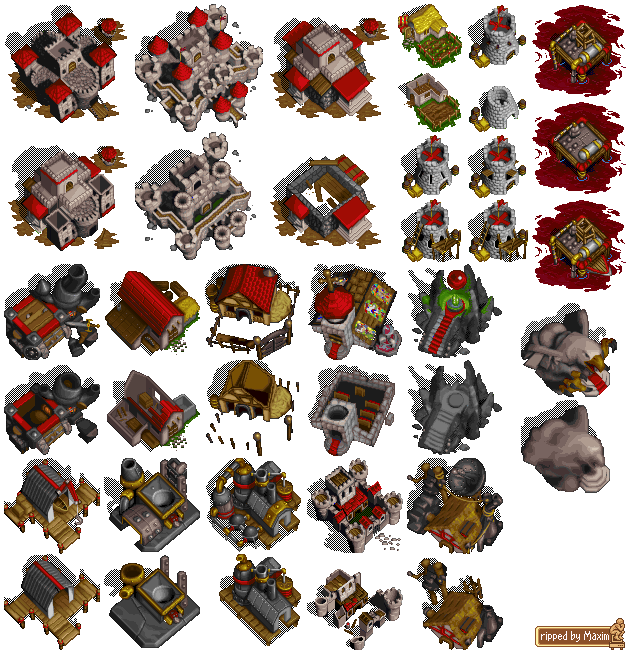
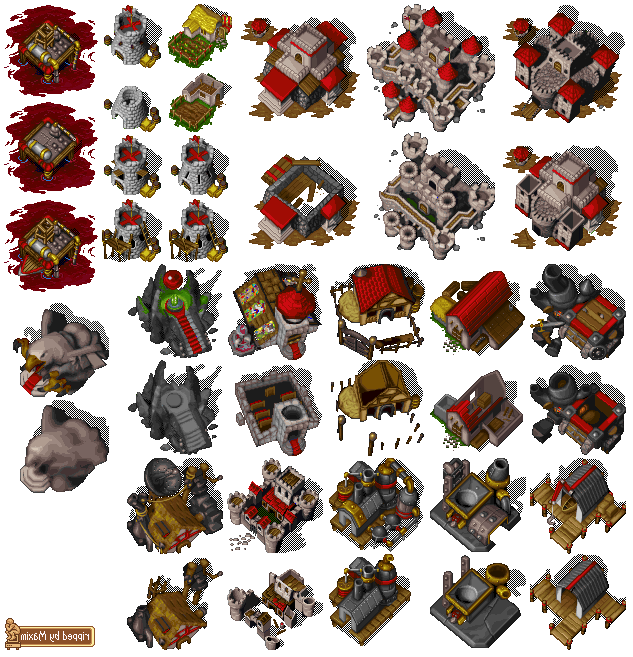
Bases implemented

diff --git a/wegasGame/client/game.js b/wegasGame/client/game.js
@@ -33,6 +33,8 @@ function onIdentify(data) {
     me = new Player(data.id, data.startX, data.startY, data.name, 1000, []);
     console.log('I am ' + data.name + " start: " + data.startX + " " + data.startY);
 
+   
+
     me.units.push(new Unit(game, 'unit1_'.concat(data.id), me.name, 100, 5, 10, 100, 100));
 
     me.units.push(new Unit(game, 'unit2_'.concat(data.id), me.name, 80, 6, 11, 150, 120));
@@ -62,7 +64,7 @@ function onCreateUnit(data) {
     redSprite[redSprite.length - 1] = '2';
     redSprite[redSprite.length - 2] = '_';
     var toCreate = new Unit(game, redSprite, data.owner, data.hp, data.minAtk, data.maxAtk, data.ms, data.coins);
-    enemy.createdUnits.push(toCreate.create(enemy.createdUnits.length,data.x, data.y));
+    enemy.createdUnits.push(toCreate.create(enemy.createdUnits.length, data.x, data.y));
 }
 
 function onMoveUnit(data) {
@@ -177,6 +179,9 @@ function preload() {
     game.load.spritesheet('unit3_2', '/client/assets/img/unit2_2.png', 70, 70);
     game.load.spritesheet('unit3_1', '/client/assets/img/unit3_1.png', 70, 70);
     game.load.spritesheet('unit3_2', '/client/assets/img/unit3_2.png', 70, 70);
+    //player base
+    game.load.spritesheet('base1', '/client/assets/img/human_buildings_1.png', 132, 130);
+    game.load.spritesheet('base2', '/client/assets/img/human_buildings_2.png', 123, 135);
 }
 
 
@@ -227,15 +232,17 @@ function render() {
     /* Debugging Zone */
     //game.debug.bodyInfo(me.createdUnits[0].unit, 16, 24);
     //game.debug.spriteInfo(me.createdUnits[0].unit, 200, 200);
-
+    if (me != null) {
+        //game.debug.body(me.base.building);
+    }
     if (me != null) {
         for (var i = 0; i < me.createdUnits.length; i++)
-            game.debug.body(me.createdUnits[i].unit);
+          game.debug.body(me.createdUnits[i].unit);
     }
 
     if (enemy != null) {
         for (var i = 0; i < enemy.createdUnits.length; i++)
-            game.debug.body(enemy.createdUnits[i].unit);
+         game.debug.body(enemy.createdUnits[i].unit);
     }
 }
 

diff --git a/wegasGame/client/assets/js/Map.js b/wegasGame/client/assets/js/Map.js
@@ -19,6 +19,11 @@ var Map = function () {
     this.layer.debug = true;
     //creare layer
 
+    //add bases
+    this.base1 = new Building(game, 'base1', 5000, 250, 70,1);
+    this.base2 = new Building(game, 'base2', 5000, 1850, 1800,2);
+
+
     //collisionMatrix
     var data = this.map.layer.data;
     this.rawGrid = [];
@@ -27,12 +32,49 @@ var Map = function () {
         for (var j = 0; j < data[i].length; j++) {
             if (data[i][j].collideUp == false && data[i][j].collideDown == false &&
                 data[i][j].collideRight == false && data[i][j].collideLeft == false) {
-                this.rawGrid[i][j] = 1;   // colision
+                this.rawGrid[i][j] = 1;  // free
             } else {
-                this.rawGrid[i][j] = 0;   // free
+                this.rawGrid[i][j] = 0;  // colision
             }
         }
     }
+
+    //add colide base 1
+    this.rawGrid[2][8] = 0;
+    this.rawGrid[3][8] = 0;
+    this.rawGrid[4][8] = 0;
+    this.rawGrid[5][8] = 0;
+    this.rawGrid[2][9] = 0;
+    this.rawGrid[3][9] = 0;
+    this.rawGrid[4][9] = 0;
+    this.rawGrid[5][9] = 0;
+    this.rawGrid[2][10] = 0;
+    this.rawGrid[3][10] = 0;
+    this.rawGrid[4][10] = 0;
+    this.rawGrid[5][10] = 0;
+    this.rawGrid[2][11] = 0;
+    this.rawGrid[3][11] = 0;
+    this.rawGrid[4][11] = 0;
+    this.rawGrid[5][11] = 0;
+
+    //add colide base 2
+    this.rawGrid[56][58] = 0;
+    this.rawGrid[57][58] = 0;
+    this.rawGrid[58][58] = 0;
+    this.rawGrid[59][58] = 0;
+    this.rawGrid[57][58] = 0;
+    this.rawGrid[56][59] = 0;
+    this.rawGrid[57][59] = 0;
+    this.rawGrid[58][59] = 0;
+    this.rawGrid[59][59] = 0;
+    this.rawGrid[56][60] = 0;
+    this.rawGrid[57][60] = 0;
+    this.rawGrid[58][60] = 0;
+    this.rawGrid[59][60] = 0;
+    this.rawGrid[57][61] = 0;
+    this.rawGrid[58][61] = 0;
+    this.rawGrid[59][61] = 0;
+
     this.graph = new Graph(this.rawGrid);
     //end_collisionMatrix
 

diff --git a/wegasGame/client/assets/js/Building.js b/wegasGame/client/assets/js/Building.js
@@ -1,0 +1,27 @@
+/**
+ * Created by Geo on 07.06.2016.
+ */
+var Building = function (game, sprite, hp, x, y, id) {
+    this.game = game;
+    this.id = id;
+    this.x = x;
+    this.y = y;
+    this.hp = hp;
+    this.markerUnit = this.game.add.graphics();
+    this.sprite = sprite;
+    if(this.id == 1) {
+        console.log("build1");
+        this.building = this.game.add.sprite(x, y, this.sprite, 1);
+        this.game.physics.enable(this.building, Phaser.Physics.ARCADE);
+        this.building.body.setSize(132,130,0,0);
+    }
+    if(this.id == 2) {
+        console.log("build2");
+        this.building = this.game.add.sprite(x, y, this.sprite, 3);
+        this.game.physics.enable(this.building, Phaser.Physics.ARCADE);
+        this.building.body.setSize(150, 140);
+    }
+
+};
+
+

diff --git a/wegasGame/client/index.html b/wegasGame/client/index.html
@@ -14,5 +14,6 @@
 <script type="text/javascript" src="/client/assets/js/Player.js"></script>
 <script type="text/javascript" src="/client/assets/js/aStar.js"></script>
 <script type="text/javascript" src="/client/assets/js/GUI.js"></script>
+<script type="text/javascript" src="/client/assets/js/Building.js"></script>
 </body>
 </html>

diff --git a/wegasGame/client/assets/js/Player.js b/wegasGame/client/assets/js/Player.js
@@ -11,6 +11,7 @@ var Player = function (id, x, y, name, coins, units) {
     this.name = name;
     this.coins = coins;
     this.units = units;
+    this.base = 0;
     this.createdUnits = [];
 };
 
